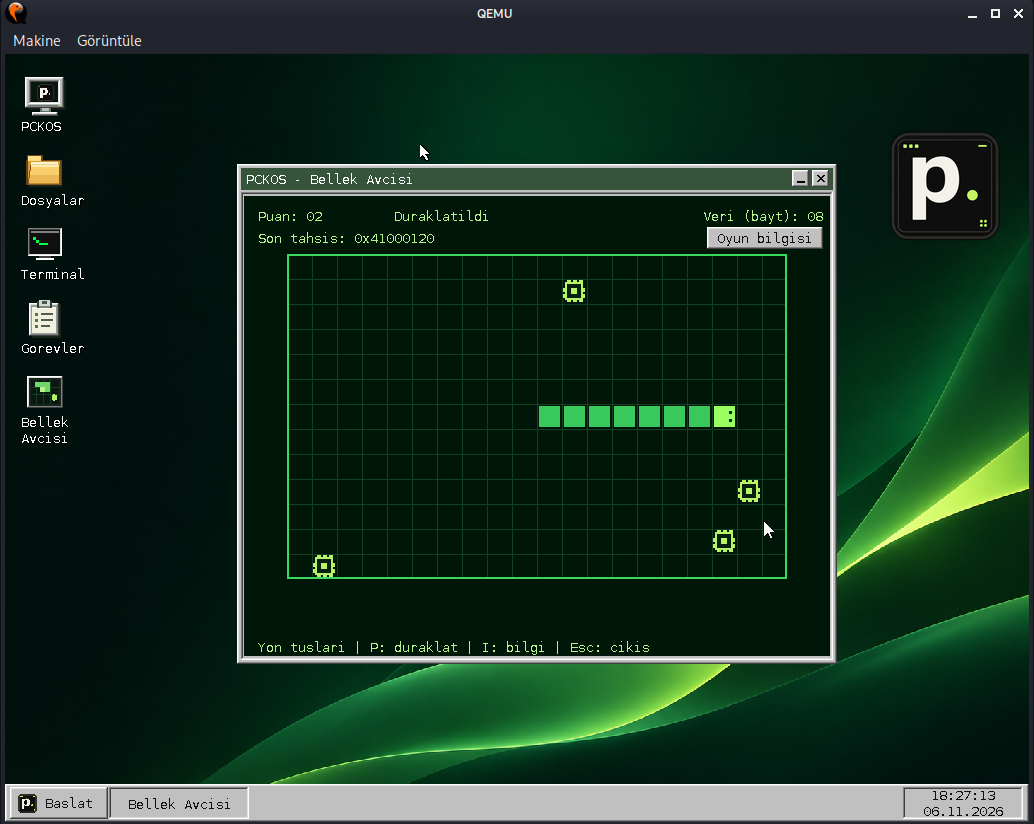
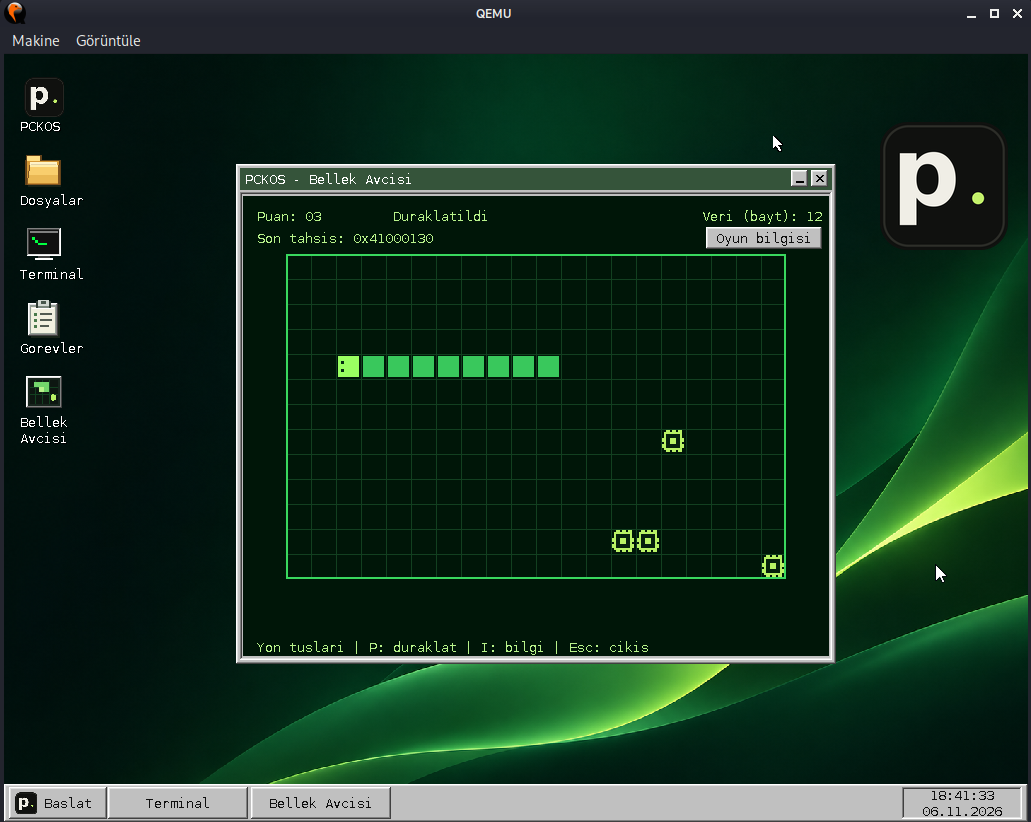
memory_hunter new int32

diff --git a/kernel/user/apps/desktop.cpp b/kernel/user/apps/desktop.cpp
@@ -435,10 +435,7 @@ namespace
                              const char *label)
         {
             if (kind == 0)
-            {
-                user::gui::icon(x, y, 0);
-                draw_logo_small(x + 12, y + 6, 20);
-            }
+                draw_logo_small(x + 2, y + 1, 40);
             else
                 user::gui::icon(x, y, kind);
             if (kind == 4)
